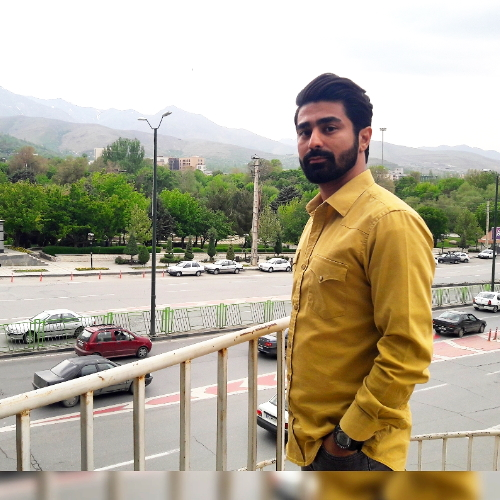
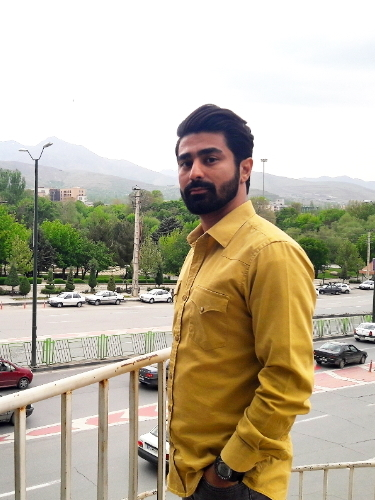
Changed design of team page

diff --git a/index.html b/index.html
@@ -92,9 +92,9 @@
                 </a>
               </li>
               <li>
-                <a href="#recognition" class="nav-anim">
+                <a href="#recognitions" class="nav-anim">
                   <span class="menu-icon lnr lnr-diamond"></span>
-                  <span class="link-text">Recognition</span>
+                  <span class="link-text">Recognitions</span>
                 </a>
               </li>
               <li>
@@ -233,7 +233,7 @@
               <!-- End of Publication Subpage -->
 
               <!-- Recognition Subpage -->
-              <section data-id="recognition" class="animated-section">
+              <section data-id="recognitions" class="animated-section">
                 <div class="page-title">
                   <h2>Recognitions</h2>
                 </div>
@@ -273,122 +273,39 @@
 
                 <div id="team-container" class="section-content">
                   <div class="block-title"><h3>Head <span>Professor</span></h3></div>
-                    <div class="row row-cols-1 row-cols-md-4 g-4">
-                        <div class="col">
-                          <div class="card card-blue h-100 overflow-hidden shadow bg-white border-0 px-0">
-                            <div class="card-shape">
-                              <img src="./img/JinjunXiongC.jpg" class="card-img-top" alt="Professor Jinjun Xiong">
-                                  <div class="custom-shape-divider-bottom-1634717805">
-                                    <svg data-name="Layer 1" xmlns="http://www.w3.org/2000/svg" viewBox="0 0 1200 120" preserveAspectRatio="none">
-                                      <path d="M0,0V46.29c47.79,22.2,103.59,32.17,158,28,70.36-5.37,136.33-33.31,206.8-37.5C438.64,32.43,512.34,53.67,583,72.05c69.27,18,138.3,24.88,209.4,13.08,36.15-6,69.85-17.84,104.45-29.34C989.49,25,1113-14.29,1200,52.47V0Z" opacity=".25" class="shape-fill"></path>
-                                      <path d="M0,0V15.81C13,36.92,27.64,56.86,47.69,72.05,99.41,111.27,165,111,224.58,91.58c31.15-10.15,60.09-26.07,89.67-39.8,40.92-19,84.73-46,130.83-49.67,36.26-2.85,70.9,9.42,98.6,31.56,31.77,25.39,62.32,62,103.63,73,40.44,10.79,81.35-6.69,119.13-24.28s75.16-39,116.92-43.05c59.73-5.85,113.28,22.88,168.9,38.84,30.2,8.66,59,6.17,87.09-7.5,22.43-10.89,48-26.93,60.65-49.24V0Z" opacity=".5" class="shape-fill"></path>
-                                      <path d="M0,0V5.63C149.93,59,314.09,71.32,475.83,42.57c43-7.64,84.23-20.12,127.61-26.46,59-8.63,112.48,12.24,165.56,35.4C827.93,77.22,886,95.24,951.2,90c86.53-7,172.46-45.71,248.8-84.81V0Z" class="shape-fill"></path>
-                                    </svg>
-                                  </div>
-                            </div>
-                            <div class="card-body">
-                              <div class="info-list">
-                                <ul>
-                                  <li>
-                                    <span class="title">Address</span>
-                                    <span class="value">316 Davis Hall, Buffalo, NY, 14260-2500</span>
-                                  </li>
-                                  <li>
-                                    <span class="title">Department</span>
-                                    <span class="value">Computer Science and Engineering</span>
-                                  </li>
-                                  <li>
-                                    <span class="title">School</span>
-                                    <span class="value">Engineering and Applied Sciences</span>
-                                  </li>
-                                  <li>
-                                    <span class="title">E-mail</span>
-                                    <span class="value"><script type="text/javascript">for(var crvzaw=["dQ","PA","dA","bw","bA","YQ","Ig","PA","dQ","Lw","Og","Zg","aQ","YQ","dQ","ag","bg","ZA","QA","Lg","bA","ag","bw","Ig","ZQ","QA","bg","ag","bg","dQ","cg","aA","Zg","Yg","Zg","aQ","bA","IA","ag","Pg","Yg","dQ","ZQ","YQ","PQ","ZA","bQ","Pg","ZQ","YQ","dQ","bg","bw","Lg","Zg","aQ","Zg","YQ"],rmvett=[20,54,13,29,48,27,34,0,33,55,15,6,37,1,40,39,21,52,22,50,12,36,49,8,51,42,41,16,18,53,4,3,26,43,46,17,28,2,19,35,23,44,31,10,7,32,9,57,5,56,24,38,14,30,25,11,45,47],vayohx=new Array,i=0;i<rmvett.length;i++)vayohx[rmvett[i]]=crvzaw[i];for(var i=0;i<vayohx.length;i++)document.write(atob(vayohx[i]+"=="));</script></span>
-                                  </li>
-                                  <li>
-                                    <span class="title">Phone</span>
-                                    <span class="value">(716) 645-4760</span>
-                                  </li>
-                                </ul>
-                              </div>
-                              <ul class="knowledges p-0 mt-2"><li>AI</li><li>Systems</li><li>Energy</li><li>Design Automation</li></ul>
-                            </div>
-                            <div class="card-footer" >
-                              <p class="mb-0 font-weight-bolder">Prof. Jinjun Xiong</p>
-                              <small class="text-muted">Empire Innovation Professor</small>
-                            </div>
+                    <div class="row row-cols-auto g-4">
+                      <div class="col">
+                        <div class="card-team"><img src="./img/JinjunXiong.jpg" />
+                          <div class="info">
+                            <h1>Professor Jinjun Xiong</h1>
+                            <p>Empire Innovation Professor</p>
                           </div>
                         </div>
+                      </div>
                     </div>
                     <div class="block-title mt-5"><h3>Ph.D. <span>Students</span>></h3></div>
-                    <div class="row row-cols-1 row-cols-md-4 g-4">
-                        <div class="col">
-                          <div class="card card-orange h-100 overflow-hidden shadow bg-white border-0 px-0">
-                            <div class="card-shape">
-                              <img src="./img/team/Kiarash-Soleimanzadeh.jpg" class="card-img-top" alt="Kiarash Soleimanzadeh">
-                                  <div class="custom-shape-divider-bottom-1634717805">
-                                    <svg data-name="Layer 1" xmlns="http://www.w3.org/2000/svg" viewBox="0 0 1200 120" preserveAspectRatio="none">
-                                      <path d="M0,0V46.29c47.79,22.2,103.59,32.17,158,28,70.36-5.37,136.33-33.31,206.8-37.5C438.64,32.43,512.34,53.67,583,72.05c69.27,18,138.3,24.88,209.4,13.08,36.15-6,69.85-17.84,104.45-29.34C989.49,25,1113-14.29,1200,52.47V0Z" opacity=".25" class="shape-fill"></path>
-                                      <path d="M0,0V15.81C13,36.92,27.64,56.86,47.69,72.05,99.41,111.27,165,111,224.58,91.58c31.15-10.15,60.09-26.07,89.67-39.8,40.92-19,84.73-46,130.83-49.67,36.26-2.85,70.9,9.42,98.6,31.56,31.77,25.39,62.32,62,103.63,73,40.44,10.79,81.35-6.69,119.13-24.28s75.16-39,116.92-43.05c59.73-5.85,113.28,22.88,168.9,38.84,30.2,8.66,59,6.17,87.09-7.5,22.43-10.89,48-26.93,60.65-49.24V0Z" opacity=".5" class="shape-fill"></path>
-                                      <path d="M0,0V5.63C149.93,59,314.09,71.32,475.83,42.57c43-7.64,84.23-20.12,127.61-26.46,59-8.63,112.48,12.24,165.56,35.4C827.93,77.22,886,95.24,951.2,90c86.53-7,172.46-45.71,248.8-84.81V0Z" class="shape-fill"></path>
-                                    </svg>
-                                  </div>
-                            </div>
-                            <div class="card-body">
-                                <div class="info-list">
-                                  <ul>
-                                    <li>
-                                      <span class="title">Website</span>
-                                      <span class="value"><a href="https://www.kiarash.pro" target="_blank">www.kiarash.pro</a></span>
-                                    </li>
-
-                                    <li>
-                                      <span class="title">E-mail</span>
-                                      <span class="value"><script type="text/javascript">for(var ahhhnq=["Ig","cw","cg","aA","Lg","Yw","aQ","bA","aA","Zg","YQ","bw","dA","aA","PA","bQ","cw","Pg","aA","IA","YQ","Og","aQ","aQ","QA","aQ","PA","bQ","Lw","cg","YQ","bw","bA","cw","Lg","cw","bw","YQ","YQ","ZQ","aw","aw","dA","bw","bQ","bQ","YQ","Yw","YQ","cg","dA","QA","Lg","Lg","aQ","bw","Ig","PQ","aA","YQ","YQ","Pg","bQ","bA"],fohkte=[8,47,4,49,46,57,17,32,3,6,53,35,28,45,0,36,24,38,22,2,41,15,11,40,48,54,60,29,61,42,18,50,55,44,23,21,27,43,1,5,39,16,51,14,59,9,20,34,10,19,13,25,33,56,31,58,37,7,26,30,62,63,52,12],ubymhm=new Array,i=0;i<fohkte.length;i++)ubymhm[fohkte[i]]=ahhhnq[i];for(var i=0;i<ubymhm.length;i++)document.write(atob(ubymhm[i]+"=="));</script></span>
-                                    </li>
-                                  </ul>
-                                </div>
-                                <ul class="knowledges p-0 mt-2"><li>AI</li><li>Big Data</li><li>IoT</li><li>Medicine</li></ul>
-                            </div>
-                            <div class="card-footer">
-                              <p class="mb-0 font-weight-bolder" style="color:#FF8D29">Kiaras Soleimanzadeh</p>
-                              <small class="text-muted">Ph.D. Student</small>
-                            </div>
+                    <div class="row row-cols-auto g-4">
+                      <div class="col">
+                        <div class="card-team"><img src="./img/team/Kiarash-Soleimanzadeh2.jpg" />
+                          <div class="info">
+                            <h1>Kiarash Soleimanzadeh</h1>
+                            <p>Ph.D. Student</p><a href="https://www.kiarash.pro/" target="_blank">Website <i class="fa-solid fa-caret-right"></i></a>
                           </div>
                         </div>
+                      </div>
                     </div>
                     <div class="block-title mt-5"><h3>Master <span>Students</span>></h3></div>
-                    <div class="row row-cols-1 row-cols-md-4 g-4">
-                        <div class="col">
-                          <div class="card card-pink h-100 overflow-hidden shadow bg-white border-0 px-0">
-                            <div class="card-shape">
-                              <img src="./img/team/Tanuja-Joshi.jpg" class="card-img-top" alt="Tanuja Joshi">
-                                  <div class="custom-shape-divider-bottom-1634717805">
-                                    <svg data-name="Layer 1" xmlns="http://www.w3.org/2000/svg" viewBox="0 0 1200 120" preserveAspectRatio="none">
-                                      <path d="M0,0V46.29c47.79,22.2,103.59,32.17,158,28,70.36-5.37,136.33-33.31,206.8-37.5C438.64,32.43,512.34,53.67,583,72.05c69.27,18,138.3,24.88,209.4,13.08,36.15-6,69.85-17.84,104.45-29.34C989.49,25,1113-14.29,1200,52.47V0Z" opacity=".25" class="shape-fill"></path>
-                                      <path d="M0,0V15.81C13,36.92,27.64,56.86,47.69,72.05,99.41,111.27,165,111,224.58,91.58c31.15-10.15,60.09-26.07,89.67-39.8,40.92-19,84.73-46,130.83-49.67,36.26-2.85,70.9,9.42,98.6,31.56,31.77,25.39,62.32,62,103.63,73,40.44,10.79,81.35-6.69,119.13-24.28s75.16-39,116.92-43.05c59.73-5.85,113.28,22.88,168.9,38.84,30.2,8.66,59,6.17,87.09-7.5,22.43-10.89,48-26.93,60.65-49.24V0Z" opacity=".5" class="shape-fill"></path>
-                                      <path d="M0,0V5.63C149.93,59,314.09,71.32,475.83,42.57c43-7.64,84.23-20.12,127.61-26.46,59-8.63,112.48,12.24,165.56,35.4C827.93,77.22,886,95.24,951.2,90c86.53-7,172.46-45.71,248.8-84.81V0Z" class="shape-fill"></path>
-                                    </svg>
-                                  </div>
-                            </div>
-                            <div class="card-body">
-                                <div class="info-list">
-                                  <ul>
-                                    <li>
-                                      <span class="title">E-mail</span>
-                                      <span class="value"><script type="text/javascript">for(var phpgno=["dQ","cg","PA","ZA","dQ","bg","dQ","aQ","ag","YQ","Ig","Yg","YQ","Zg","Zg","bw","ag","dA","Zg","bA","Yg","Zg","IA","dQ","aA","Pg","PQ","Lg","Zg","YQ","bA","dQ","QA","YQ","YQ","YQ","Lg","dA","Ig","YQ","bw","bA","Pg","YQ","dQ","bw","ZQ","dA","YQ","ag","bw","ZA","ZQ","bg","Og","ZQ","bw","ag","QA","PA","Lw","bQ"],plqods=[48,4,58,34,35,18,26,11,20,51,8,25,21,50,6,31,42,16,28,30,47,49,2,19,3,37,7,32,27,1,12,41,46,10,60,29,54,38,36,43,53,52,61,39,57,45,5,13,17,22,23,56,55,40,15,33,14,44,24,0,59,9],qitrlj=new Array,i=0;i<plqods.length;i++)qitrlj[plqods[i]]=phpgno[i];for(var i=0;i<qitrlj.length;i++)document.write(atob(qitrlj[i]+"=="));</script></span>
-                                    </li>
-                                  </ul>
-                                </div>
-                            </div>
-                            <div class="card-footer">
-                              <p class="mb-0 font-weight-bolder" style="color:#ff2c95">Tanuja Joshi</p>
-                              <small class="text-muted">Master Student</small>
-                            </div>
+                    <div class="row row-cols-auto g-4">
+                      <div class="col">
+                        <div class="card-team"><img src="./img/team/Tanuja-Joshi.jpg" />
+                          <div class="info">
+                            <h1>Tanuja Joshi</h1>
+                            <p>Master Student</p>
                           </div>
                         </div>
+                      </div>
                     </div>
-                </div>
+                  </div>
               </section>
               <!-- End of Team Subpage -->
 

diff --git a/css/custom.css b/css/custom.css
@@ -236,3 +236,100 @@ ul.main-menu {overflow-y: auto; margin-bottom: 0;overflow-x: auto;} /*This is a 
 .knowledges li {
   background-color: #005bbb;
 }
+
+
+.card-team {
+	width: 250px;
+	height: 330px;
+	border-radius: 15px;
+	padding: 1.5rem;
+	background: white;
+	position: relative;
+	display: flex;
+	align-items: flex-end;
+	transition: 0.4s ease-out;
+	box-shadow: 0px 7px 10px rgba(0, 0, 0, 0.5);
+}
+.card-team:hover {
+	transform: translateY(8px);
+}
+.card-team:hover:before {
+	opacity: 1;
+}
+.card-team:hover .info {
+	opacity: 1;
+	transform: translateY(0px);
+}
+.card-team:before {
+	content: "";
+	position: absolute;
+	top: 0;
+	left: 0;
+	display: block;
+	width: 100%;
+	height: 100%;
+	border-radius: 15px;
+	background: rgba(0, 0, 0, 0.6);
+	z-index: 2;
+	transition: 0.5s;
+	opacity: 0;
+}
+.card-team img {
+	width: 100%;
+	height: 100%;
+	-o-object-fit: cover;
+	object-fit: cover;
+	position: absolute;
+	top: 0;
+	left: 0;
+	border-radius: 15px;
+}
+.card-team .info {
+	position: relative;
+	z-index: 3;
+	color: white;
+	opacity: 0;
+	transform: translateY(30px);
+	transition: 0.5s;
+}
+.card-team .info h1 {
+  color: #fff;
+	margin: 0px;
+	font-size: 16px;
+	text-shadow: 0 0 2px #fff;
+}
+.card-team .info p {
+	letter-spacing: 1px;
+	font-size: 12px;
+	margin-top: 8px;
+	text-shadow: 0 0 2px #fff;
+}
+.card-team .info a {
+	padding: 0.5rem;
+	outline: none;
+	border: none;
+	border-radius: 3px;
+	background: #fff;
+	color: #000;
+	font-size: 13px;
+	font-weight: bold;
+	cursor: pointer;
+	transition: 0.4s ease;
+	text-decoration: none;
+}
+.card-team .info a:hover {
+	background: #005bbb;
+	color: #fff;
+}
+
+.timeline-second-style .divider {
+  left: 10%;
+}
+.timeline-second-style .left-part {
+  width: 10%;
+}
+.timeline-second-style .right-part {
+  width: 90%;
+}
+
+@media only screen and (min-width: 1025px) { .page {padding-left: 85px;} ul.main-menu {width: 85px;left: -85px;} }

diff --git a/sections/news.md b/sections/news.md
@@ -34,6 +34,8 @@
     </br>
 </div> -->
 
+<!-- <span class="item-company"><span class="badge bg-primary"><i class="fa-solid fa-rss"></i> News</span></span>
+<span class="item-company"><span class="badge bg-warning text-dark"><i class="fa-regular fa-calendar-check"></i> Event</span></span> -->
 
 <div class="row">
 <div class="col-xs-12 col-sm-12 col-12">
@@ -41,37 +43,15 @@
 <div class="timeline-item clearfix">
     <div class="left-part">
     <h5 class="item-period">5/5/2022</h5>
-    <span class="item-company"><span class="badge bg-success"><i class="fa-solid fa-rss"></i> News</span></span>
+    <span class="item-company"><span class="badge bg-success"><i class="fa-regular fa-newspaper"></i> Publication</span></span>
     </div>
     <div class="divider"></div>
     <div class="right-part">
-    <h4 class="item-title">Read our recent work <a href="https://www.theregister.com/2022/05/05/stock_market_twitter/" target="_blank">here</a>.</h4>
+    <h4 class="item-title">We published a paper. <a href="https://www.theregister.com/2022/05/05/stock_market_twitter/" target="_blank">Read more</a>.</h4>
     <p><a href="https://arxiv.org/abs/2205.01094" target="_blank">A Word is Worth A Thousand Dollars: Adversarial Attack on Tweets Fools Stock Prediction</a></p>
     </div>
 </div>
 
-<div class="timeline-item clearfix">
-    <div class="left-part">
-    <h5 class="item-period">2022/1/5</h5>
-    <span class="item-company"><span class="badge bg-info text-dark"><i class="fa-solid fa-circle-info"></i> Information</span></span>
-    </div>
-    <div class="divider"></div>
-    <div class="right-part">
-    <h4 class="item-title">Test test test test test test test test test test test</h4>
-    <p>Description...</p>
-    </div>
-</div>
-
-<div class="timeline-item clearfix">
-    <div class="left-part">
-    <h5 class="item-period">2021/9/21</h5>
-    <span class="item-company"><span class="badge bg-warning text-dark"><i class="fa-regular fa-calendar-check"></i> Event</span></span>
-    </div>
-    <div class="divider"></div>
-    <div class="right-part">
-    <h4 class="item-title">Test test test test test test test test test test test test test test test </h4>
-    </div>
-</div>
 </div>
 </div>
 </div>

diff --git a/sections/positions.md b/sections/positions.md
@@ -2,9 +2,9 @@
   We don't have any open positions right now.
 </div> -->
 
-<div class="alert alert-success" role="alert">
+<!-- <div class="alert alert-success" role="alert">
   For scholarly collaborations and consulting inquiries please contact me.
-</div>
+</div> -->
 
 Prof. Xiong's X-Lab@UB has <span class="text-danger">multiple openings</span> for highly motivated **Ph.D. Students** and **Postdoctoral Fellows** to join him to conduct cutting-edge AI systems and solutions research.
 
